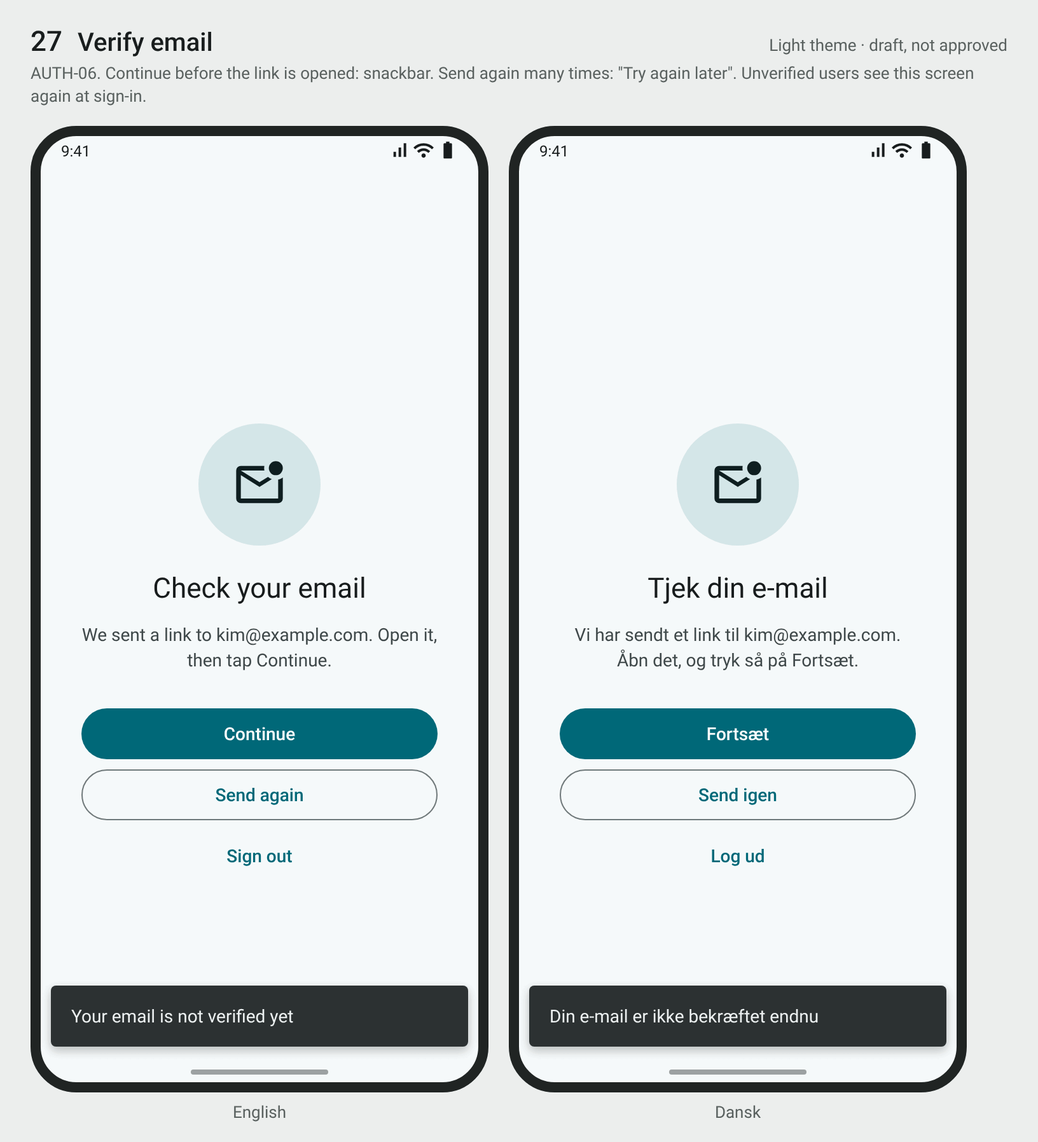
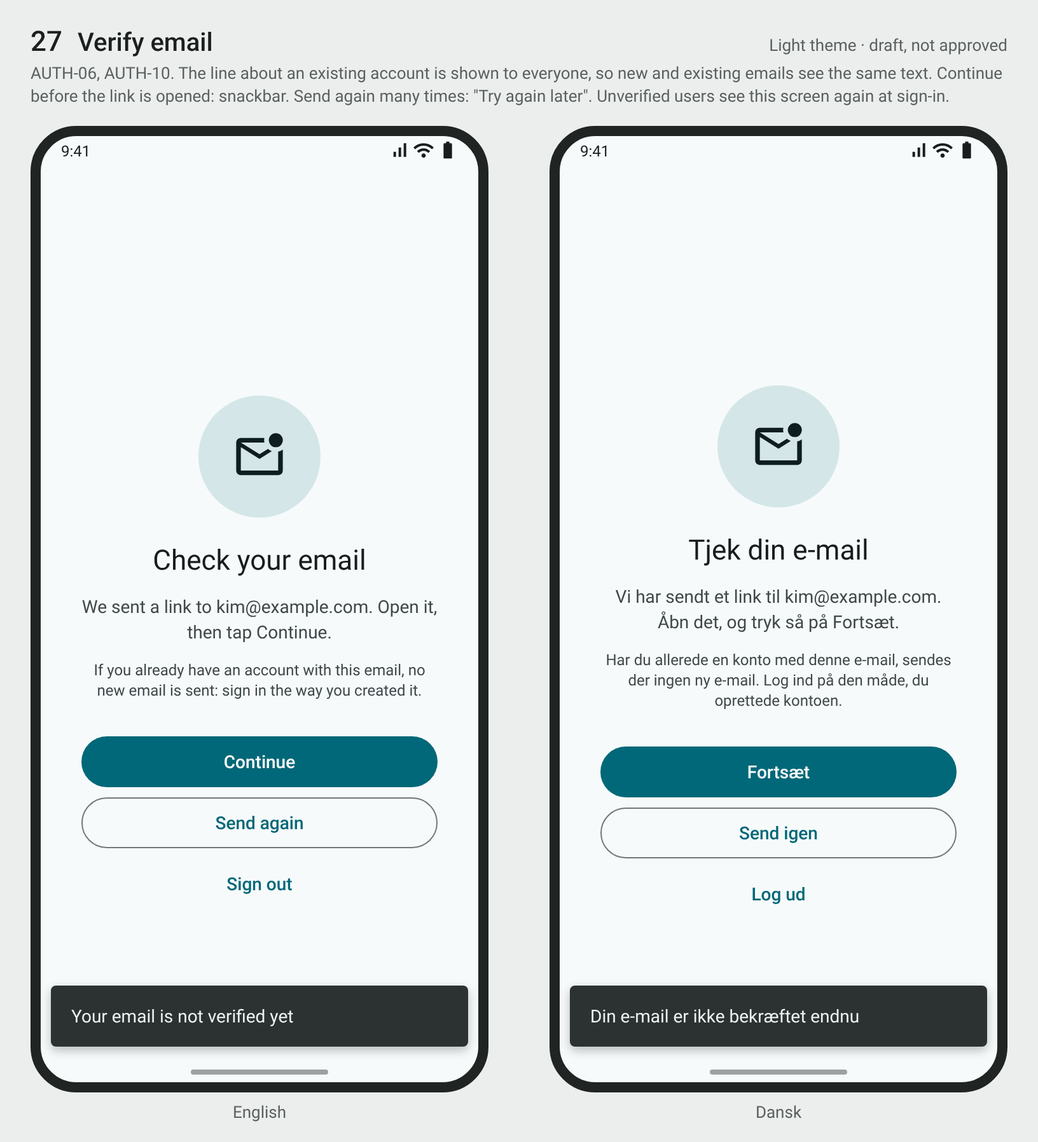
docs: wireframes 34-44 and updates to 01, 18, 24, 26, 27 for the M1 UI wording
Claude-Session: https://claude.ai/code/session_013srDQhMqky9FrW9HLVgezq

diff --git a/docs/product/wireframes/wireframes.html b/docs/product/wireframes/wireframes.html
@@ -101,6 +101,8 @@
 
   .snack { position: absolute; left: var(--sp-s); right: var(--sp-s); bottom: var(--sp-s); min-height: 48px; border-radius: 4px; background: var(--inverseSurface); color: var(--inverseOnSurface); display: flex; align-items: center; padding: var(--sp-s) var(--sp-s) var(--sp-s) var(--sp-l); gap: var(--sp-s); box-shadow: 0 3px 8px rgba(0,0,0,.25); z-index: 5; }
   .snack .txt { flex: 1; }
+  .switch { width: 52px; height: 32px; border-radius: 16px; border: 2px solid var(--outline); background: var(--surfaceContainerHighest); position: relative; flex: none; box-sizing: border-box; }
+  .switch::after { content: ''; position: absolute; top: 6px; left: 6px; width: 16px; height: 16px; border-radius: 50%; background: var(--outline); }
   .snack .act { color: var(--inversePrimary); padding: 0 var(--sp-m); height: 40px; display: inline-flex; align-items: center; }
 
   .scrim { position: absolute; inset: -24px 0 -20px 0; background: var(--scrim); opacity: .32; z-index: 6; }
@@ -188,7 +190,7 @@ const TOKENS_URL = sameOriginUrl(params.get('tokens') || DEFAULT_TOKENS, locatio
 const S = {
   en: {
     appTag: 'Collections and lists, shared with your household',
-    signIn: 'Sign in with Google', signInNote: 'Your lists are kept with your account, so they follow you to a new phone.',
+    signIn: 'Continue with Google', signInNote: 'Your lists are kept with your account, so they follow you to a new phone.',
     needsConnection: 'This needs a connection',
     lists: 'Lists', createList: 'Create list', noListsTitle: 'No lists yet',
     noListsBody: 'Make a list of what you collect or need, and tick off what you have. A new list is private until you share it.',
@@ -197,7 +199,7 @@ const S = {
     listType: 'List type', plainList: 'Plain list', plainNote: 'Items with a name, sorted by name', collection: 'Collection',
     collectionNote: 'Items with release and re-release year, sorted by year', typeFixed: 'The type cannot be changed later.',
     signInEmail: 'Use email and password', createAccount: 'Create account', email: 'Email', password: 'Password',
-    signInBtn: 'Sign in', forgot: 'Forgot password?', wrongCreds: 'Wrong email or password', tooMany: 'Too many attempts, try again later',
+    signInBtn: 'Sign in', forgot: 'Forgot password?', wrongCreds: 'Wrong email or password. If you signed up with Google, use Continue with Google.', tooMany: 'Too many attempts, try again later',
     pwRule: 'At least 12 characters', pwShort: 'Use at least 12 characters', noAccount: 'No account yet?',
     checkEmail: 'Check your email', checkEmailBody: e => `We sent a link to ${e}. Open it, then tap Continue.`,
     cont: 'Continue', sendAgain: 'Send again', notVerified: 'Your email is not verified yet',
@@ -242,12 +244,33 @@ const S = {
     hhDeleted: 'Household deleted',
     hhDeletedBody: h => `${h} was deleted. The lists you had shared are private to you again, with all their items. You can share them again when you are in a household.`,
     ok: 'OK',
+    collision: 'This email already has an account. Sign in with your email and password.',
+    checkEmailNote: 'If you already have an account with this email, no new email is sent: sign in the way you created it.',
+    yourName: 'Your name', nameHelp: 'Your household sees this name. Your email is never shown.', enterYourName: 'Enter your name',
+    nameTitle: 'What should we call you?', nameGoogleBody: 'We filled this in from your Google account. Your household sees this name, never your email.',
+    editName: 'Edit your name',
+    crash: 'Send crash reports', crashNote: 'Off until you turn it on. Helps fix crashes.',
+    leaveQ: 'Leave household?', leave: 'Leave',
+    leaveBody: h => `You leave ${h}. The lists you created go with you and stay private. The other members lose the lists you shared.`,
+    removeQ: n => `Remove ${n}?`,
+    removeBody: n => `${n} loses access to the lists others shared. The lists ${n} created go with ${n}, so the other members lose the lists ${n} shared.`,
+    ownerQ: n => `Make ${n} household owner?`, makeOwnerBtn: 'Make owner',
+    ownerBody: n => `${n} becomes the household owner and you become a plain member. Only the household owner can remove members, transfer ownership and delete the household.`,
+    deleteHhQ: 'Delete household?',
+    deleteHhBody: h => `${h} is deleted for all members and cannot be restored. Shared lists go back to the people who created them, private, with all their items.`,
+    transferFirst: 'Transfer ownership first', toHousehold: 'Go to household',
+    transferFirstBody: 'You are the household owner and other members remain. Make another member the household owner, then delete your account. Nothing has been deleted.',
+    signOutQ: 'Sign out?', signOutBody: 'Some changes have not been sent yet. If you sign out now, they are lost.', signOutAnyway: 'Sign out anyway',
+    removedQ: 'You were removed from the household',
+    removedBody: h => `You were removed from ${h}. The lists you created stay with you and are private. You no longer see lists others shared.`,
+    updateTitle: 'Update the app', updateBody: 'This version of Tally is too old to work. Get the new version, then open it.',
+    updateBtn: 'Get the update', updateNote: 'Opens the releases page on GitHub.',
     webTitle: 'You are invited to a household in Tally', webBody: 'Install the app, then tap the link again.',
     webPlay: 'Open Google Play', webSmall: 'Already installed? Tap the link in your message again.',
   },
   da: {
     appTag: 'Samlinger og lister, delt med din husstand',
-    signIn: 'Log ind med Google', signInNote: 'Dine lister gemmes med din konto, så de følger med til en ny telefon.',
+    signIn: 'Fortsæt med Google', signInNote: 'Dine lister gemmes med din konto, så de følger med til en ny telefon.',
     needsConnection: 'Det kræver internetforbindelse',
     lists: 'Lister', createList: 'Opret liste', noListsTitle: 'Ingen lister endnu',
     noListsBody: 'Lav en liste over det, du samler på eller mangler, og sæt flueben ved det, du har. En ny liste er privat, indtil du deler den.',
@@ -256,7 +279,7 @@ const S = {
     listType: 'Listetype', plainList: 'Almindelig liste', plainNote: 'Ting med et navn, sorteret efter navn', collection: 'Samling',
     collectionNote: 'Ting med udgivelses- og genudgivelsesår, sorteret efter år', typeFixed: 'Typen kan ikke ændres senere.',
     signInEmail: 'Brug e-mail og adgangskode', createAccount: 'Opret konto', email: 'E-mail', password: 'Adgangskode',
-    signInBtn: 'Log ind', forgot: 'Glemt adgangskode?', wrongCreds: 'Forkert e-mail eller adgangskode', tooMany: 'For mange forsøg. Prøv igen senere',
+    signInBtn: 'Log ind', forgot: 'Glemt adgangskode?', wrongCreds: 'Forkert e-mail eller adgangskode. Hvis du oprettede dig med Google, så brug Fortsæt med Google.', tooMany: 'For mange forsøg. Prøv igen senere',
     pwRule: 'Mindst 12 tegn', pwShort: 'Brug mindst 12 tegn', noAccount: 'Har du ingen konto?',
     checkEmail: 'Tjek din e-mail', checkEmailBody: e => `Vi har sendt et link til ${e}. Åbn det, og tryk så på Fortsæt.`,
     cont: 'Fortsæt', sendAgain: 'Send igen', notVerified: 'Din e-mail er ikke bekræftet endnu',
@@ -301,6 +324,27 @@ const S = {
     hhDeleted: 'Husstanden er slettet',
     hhDeletedBody: h => `${h} er slettet. De lister, du havde delt, er private for dig igen med alle deres ting. Du kan dele dem igen, når du er i en husstand.`,
     ok: 'OK',
+    collision: 'Der findes allerede en konto med denne e-mail. Log ind med din e-mail og adgangskode.',
+    checkEmailNote: 'Har du allerede en konto med denne e-mail, sendes der ingen ny e-mail. Log ind på den måde, du oprettede kontoen.',
+    yourName: 'Dit navn', nameHelp: 'Din husstand ser dette navn. Din e-mail vises aldrig.', enterYourName: 'Skriv dit navn',
+    nameTitle: 'Hvad skal vi kalde dig?', nameGoogleBody: 'Vi har udfyldt det fra din Google-konto. Din husstand ser dette navn, aldrig din e-mail.',
+    editName: 'Ret dit navn',
+    crash: 'Send nedbrudsrapporter', crashNote: 'Slået fra, indtil du slår det til. Hjælper med at rette nedbrud.',
+    leaveQ: 'Forlad husstanden?', leave: 'Forlad',
+    leaveBody: h => `Du forlader ${h}. De lister, du har oprettet, følger med dig og er private. De andre medlemmer mister de lister, du har delt.`,
+    removeQ: n => `Fjern ${n}?`,
+    removeBody: n => `${n} mister adgang til de lister, andre har delt. De lister, ${n} har oprettet, følger med ${n}, så de andre medlemmer mister de lister, ${n} har delt.`,
+    ownerQ: n => `Gør ${n} til husstandens ejer?`, makeOwnerBtn: 'Gør til ejer',
+    ownerBody: n => `${n} bliver husstandens ejer, og du bliver almindeligt medlem. Kun husstandens ejer kan fjerne medlemmer, overdrage ejerskab og slette husstanden.`,
+    deleteHhQ: 'Slet husstanden?',
+    deleteHhBody: h => `${h} slettes for alle medlemmer og kan ikke gendannes. Delte lister går tilbage til dem, der har oprettet dem, som private lister med alle deres ting.`,
+    transferFirst: 'Overdrag ejerskab først', toHousehold: 'Gå til husstanden',
+    transferFirstBody: 'Du er husstandens ejer, og der er andre medlemmer. Gør et andet medlem til husstandens ejer, og slet så din konto. Intet er slettet.',
+    signOutQ: 'Log ud?', signOutBody: 'Nogle ændringer er ikke sendt endnu. Hvis du logger ud nu, går de tabt.', signOutAnyway: 'Log ud alligevel',
+    removedQ: 'Du er fjernet fra husstanden',
+    removedBody: h => `Du er fjernet fra ${h}. De lister, du har oprettet, er stadig dine og private. Du kan ikke længere se lister, andre har delt.`,
+    updateTitle: 'Opdater appen', updateBody: 'Denne version af Tally er for gammel til at virke. Hent den nye version, og åbn den.',
+    updateBtn: 'Hent opdateringen', updateNote: 'Åbner siden med udgivelser på GitHub.',
     webTitle: 'Du er inviteret til en husstand i Tally', webBody: 'Installer appen, og tryk så på linket igen.',
     webPlay: 'Åbn Google Play', webSmall: 'Har du allerede appen? Tryk på linket i din besked igen.',
   },
@@ -394,13 +438,36 @@ const qr = () => { let r = ''; let x = 7;
   return `<svg width="148" height="148" viewBox="-1 -1 23 23" style="background:#fff;border-radius:8px;align-self:center"><g fill="#000">${r}</g></svg>`; };
 const linkRow = (a, b) => `<div class="t-bodyMedium" style="text-align:center;margin-top:var(--sp-s)">${a}</div>${b ? `<div class="t-bodyMedium" style="text-align:center">${b}</div>` : ''}`;
 
+const signInScreen = (s, msg) => `<div class="center">${logo()}<div class="t-headlineSmall" style="margin-top:var(--sp-l)">Tally</div>
+  <div class="t-bodyLarge var">${s.appTag}</div>${msg}
+  <div class="stack"><span class="btn filled wide t-labelLarge">${ic('login')}${s.signIn}</span><span class="btn outlined wide t-labelLarge">${ic('mail')}${s.signInEmail}</span></div>
+  <div class="t-bodySmall var" style="margin-top:var(--sp-s)">${s.signInNote}</div></div>`;
+const msgCard = (icon, text) => `<div class="row card" style="width:100%;margin:var(--sp-s) 0 0;background:var(--errorContainer);color:var(--onErrorContainer);text-align:left">${ic(icon)}<div class="txt t-bodyMedium">${text}</div></div>`;
+const hhMembers = (s, menu) => `${topbar(s.household, { back: true })}<div class="head"><div class="t-headlineSmall">${HH}</div><div class="t-bodyMedium var">${s.members(3)}</div></div>
+  <div class="row"><span class="avatar lg">S</span><div class="txt"><div class="t-bodyLarge">Sam Jensen (${s.you})</div><div class="t-bodyMedium var">${s.owner}</div></div></div>
+  <div class="row"><span class="avatar lg sec">A</span><div class="txt"><div class="t-bodyLarge">Anna Jensen</div><div class="t-bodyMedium var">${s.member}</div></div>${iconBtn('more_vert')}</div>
+  <div class="row"><span class="avatar lg ter">M</span><div class="txt"><div class="t-bodyLarge">Mikkel</div><div class="t-bodyMedium var">${s.member}</div></div>${iconBtn('more_vert')}</div>
+  ${menu ? `<div class="menu t-bodyLarge" style="top:262px;right:16px"><div class="mi">${ic('shield_person')}<span>${s.makeOwner}</span></div><div class="mi danger">${ic('person_remove')}<span>${s.removeMember}</span></div></div>` : ''}
+  <div class="section t-titleMedium">${s.openInvites}</div>
+  <div class="row">${ic('link', 'lead')}<div class="txt"><div class="t-bodyLarge">${s.inviteLink}</div><div class="t-bodyMedium var">${s.expiresIn(6)}</div></div><span class="btn text t-labelLarge">${s.revoke}</span></div>
+  <div style="padding:var(--sp-s) var(--sp-l)"><span class="btn filled wide t-labelLarge">${ic('share')}${s.invite}</span></div>
+  <div style="padding:0 var(--sp-l)"><span class="btn text danger wide t-labelLarge">${s.deleteHh}</span></div>`;
+const accountScreen = s => `${topbar(s.account, { back: true })}<div class="row" style="padding:var(--sp-l)"><span class="avatar lg">S</span><div class="txt"><div class="t-titleMedium">Sam Jensen</div><div class="t-bodyMedium var">sam@example.com</div></div></div>
+  <div class="divider"></div>
+  <div class="row">${ic('badge', 'lead')}<div class="txt"><div class="t-bodyLarge">${s.yourName}</div><div class="t-bodyMedium var">Sam Jensen</div></div>${ic('edit', 'lead')}</div>
+  <div class="row">${ic('password', 'lead')}<div class="txt t-bodyLarge">${s.changePw}</div>${ic('chevron_right', 'lead')}</div>
+  <div class="row">${ic('phonelink_lock', 'lead')}<div class="txt"><div class="t-bodyLarge">${s.twoStep}</div><div class="t-bodyMedium var">${s.off}</div></div>${ic('chevron_right', 'lead')}</div>
+  <div class="row">${ic('home', 'lead')}<div class="txt"><div class="t-bodyLarge">${s.household}</div><div class="t-bodyMedium var">${HH}</div></div>${ic('chevron_right', 'lead')}</div>
+  <div class="row">${ic('bug_report', 'lead')}<div class="txt"><div class="t-bodyLarge">${s.crash}</div><div class="t-bodyMedium var">${s.crashNote}</div></div><span class="switch"></span></div>
+  <div class="divider"></div>
+  <div class="row">${ic('logout', 'lead')}<div class="txt"><div class="t-bodyLarge">${s.signOut}</div><div class="t-bodyMedium var">${s.signOutNote}</div></div></div>
+  <div class="row" style="color:var(--error)">${ic('delete_forever')}<div class="txt t-bodyLarge">${s.deleteAccount}</div></div>
+  <div class="t-bodySmall var" style="margin-top:auto;padding:var(--sp-l);text-align:center">Tally 1.0</div>`;
+
 /* ---------- Screens: id, title, story and decision refs, content(strings) ---------- */
 const SCREENS = [
-  { id: '01', t: 'Sign-in', refs: 'AUTH-01, AUTH-02, SYNC-03, OQ-22, OQ-23. Google is the main button; "Use email and password" leads to sign in, create account and reset (24 to 28). Shown only when signed out. No connection: snackbar, nothing else happens. Cancelling the account picker shows nothing.',
-    f: s => `<div class="center">${logo()}<div class="t-headlineSmall" style="margin-top:var(--sp-l)">Tally</div>
-      <div class="t-bodyLarge var">${s.appTag}</div>
-      <div class="stack"><span class="btn filled wide t-labelLarge">${ic('login')}${s.signIn}</span><span class="btn outlined wide t-labelLarge">${ic('mail')}${s.signInEmail}</span></div>
-      <div class="t-bodySmall var" style="margin-top:var(--sp-s)">${s.signInNote}</div></div>${snack(s.needsConnection)}` },
+  { id: '01', t: 'Sign-in', refs: 'AUTH-01, AUTH-02, SYNC-03, OQ-22, OQ-23. Google is the main button ("Continue with Google"); "Use email and password" leads to sign in, create account and reset (24 to 28). Shown only when signed out. No connection: snackbar, nothing else happens. Cancelling the account picker shows nothing.',
+    f: s => signInScreen(s, '') + snack(s.needsConnection) },
   { id: '02', t: 'Lists, empty', refs: 'LIST-01, VIS-01, OQ-1. First start of a new account.',
     f: s => `${listsBar(s)}<div class="center"><div class="bubble">${ic('checklist')}</div><div class="t-titleLarge">${s.noListsTitle}</div>
       <div class="t-bodyMedium var">${s.noListsBody}</div></div>${fab(s.createList)}` },
@@ -445,15 +512,7 @@ const SCREENS = [
       <div class="divider" style="width:100%;margin:var(--sp-l) 0 var(--sp-s)"></div>
       <div class="t-titleMedium">${s.haveLink}</div><div class="t-bodyMedium var">${s.haveLinkBody}</div></div>` },
   { id: '15', t: 'Household members (household owner)', refs: 'HH-02, HH-04, HH-06. Member menu open. A plain member sees Leave household instead of Delete and no member menu. All of these need a connection (OQ-22).',
-    f: s => `${topbar(s.household, { back: true })}<div class="head"><div class="t-headlineSmall">${HH}</div><div class="t-bodyMedium var">${s.members(3)}</div></div>
-      <div class="row"><span class="avatar lg">S</span><div class="txt"><div class="t-bodyLarge">Sam Jensen (${s.you})</div><div class="t-bodyMedium var">${s.owner}</div></div></div>
-      <div class="row"><span class="avatar lg sec">A</span><div class="txt"><div class="t-bodyLarge">Anna Jensen</div><div class="t-bodyMedium var">${s.member}</div></div>${iconBtn('more_vert')}</div>
-      <div class="row"><span class="avatar lg ter">M</span><div class="txt"><div class="t-bodyLarge">Mikkel</div><div class="t-bodyMedium var">${s.member}</div></div>${iconBtn('more_vert')}</div>
-      <div class="menu t-bodyLarge" style="top:262px;right:16px"><div class="mi">${ic('shield_person')}<span>${s.makeOwner}</span></div><div class="mi danger">${ic('person_remove')}<span>${s.removeMember}</span></div></div>
-      <div class="section t-titleMedium">${s.openInvites}</div>
-      <div class="row">${ic('link', 'lead')}<div class="txt"><div class="t-bodyLarge">${s.inviteLink}</div><div class="t-bodyMedium var">${s.expiresIn(6)}</div></div><span class="btn text t-labelLarge">${s.revoke}</span></div>
-      <div style="padding:var(--sp-s) var(--sp-l)"><span class="btn filled wide t-labelLarge">${ic('share')}${s.invite}</span></div>
-      <div style="padding:0 var(--sp-l)"><span class="btn text danger wide t-labelLarge">${s.deleteHh}</span></div>` },
+    f: s => hhMembers(s, true) },
   { id: '16', t: 'Join household', refs: 'HH-03, OQ-16. Opened from an invite link, after sign-in if needed. Joining needs a connection (OQ-22).',
     f: s => `${topbar('', { close: true })}<div class="center"><div class="bubble">${ic('home')}</div><div class="t-bodyLarge var">${s.invited}</div>
       <div class="t-headlineSmall">${HH}</div><div class="t-bodyMedium var">${s.joinBody}</div>
@@ -461,16 +520,8 @@ const SCREENS = [
   { id: '17', t: 'Invite link does not work', refs: 'HH-03, SYNC-03. The same layout says "leave your household first" and "this needs a connection", each with its own text.',
     f: s => `${topbar('', { close: true })}<div class="center"><div class="bubble">${ic('link_off')}</div><div class="t-titleLarge">${s.linkDead}</div>
       <div class="t-bodyMedium var">${s.linkDeadBody}</div><div class="stack"><span class="btn tonal wide t-labelLarge">${s.toLists}</span></div></div>` },
-  { id: '18', t: 'Account', refs: 'AUTH-03, AUTH-04, AUTH-09, OQ-31. Password account shown; a Google account has no password rows. No language row: v1 uses only Android per-app language (OQ-12). Sign out removes the local copy (OQ-13, assumed).',
-    f: s => `${topbar(s.account, { back: true })}<div class="row" style="padding:var(--sp-l)"><span class="avatar lg">S</span><div class="txt"><div class="t-titleMedium">Sam Jensen</div><div class="t-bodyMedium var">sam@example.com</div></div></div>
-      <div class="divider"></div>
-      <div class="row">${ic('password', 'lead')}<div class="txt t-bodyLarge">${s.changePw}</div>${ic('chevron_right', 'lead')}</div>
-      <div class="row">${ic('phonelink_lock', 'lead')}<div class="txt"><div class="t-bodyLarge">${s.twoStep}</div><div class="t-bodyMedium var">${s.off}</div></div>${ic('chevron_right', 'lead')}</div>
-      <div class="row">${ic('home', 'lead')}<div class="txt"><div class="t-bodyLarge">${s.household}</div><div class="t-bodyMedium var">${HH}</div></div>${ic('chevron_right', 'lead')}</div>
-      <div class="divider"></div>
-      <div class="row">${ic('logout', 'lead')}<div class="txt"><div class="t-bodyLarge">${s.signOut}</div><div class="t-bodyMedium var">${s.signOutNote}</div></div></div>
-      <div class="row" style="color:var(--error)">${ic('delete_forever')}<div class="txt t-bodyLarge">${s.deleteAccount}</div></div>
-      <div class="t-bodySmall var" style="margin-top:auto;padding:var(--sp-l);text-align:center">Tally 1.0</div>` },
+  { id: '18', t: 'Account', refs: 'AUTH-03, AUTH-04, AUTH-09, AUTH-12, OQ-31. Password account shown; a Google account has no password rows. "Your name" is editable (43, AUTH-12). "Send crash reports" is off until switched on (M1-25). No language row: v1 uses only Android per-app language (OQ-12). Sign out removes the local copy (OQ-13, assumed).',
+    f: s => accountScreen(s) },
   { id: '19', t: 'Delete account', refs: 'AUTH-04, OQ-5. A household owner with other members is first told to transfer ownership; nothing is deleted. Needs a connection.',
     f: s => `${topbar(s.account, { back: true })}${dialog({ icon: 'delete_forever', title: s.deleteAccountQ, body: s.deleteAccountBody,
       acts: `<span class="btn text">${s.cancel}</span><span class="btn text danger">${s.deleteAccount}</span>` })}` },
@@ -485,19 +536,19 @@ const SCREENS = [
     f: s => openList(s, { l: LISTS[1], items: PLAIN }) },
   { id: '23', t: 'Add item, plain list', refs: 'ITEM-01 for a plain list: the name only; the sheet stays open for the next item. Edit (08) is the same without years.',
     f: s => openList(s, { l: LISTS[1], items: PLAIN, fabOn: false, overlay: sheetItem(s, { title: s.addItem, name: 'Kaffeb', focus: 'n', plain: true }) }) },
-  { id: '24', t: 'Sign in with email, wrong email or password', refs: 'AUTH-07. One message that never says which part was wrong or whether the account exists. No connection: "This needs a connection".',
+  { id: '24', t: 'Sign in with email, wrong email or password', refs: 'AUTH-07, OQ-34 (c, decided). One message that never says which part was wrong or whether the account exists, with the hint for Google users. No connection: "This needs a connection".',
     f: s => auth(s.signInBtn, '', `${field({ label: s.email, value: 'sam@example.com' })}${pw(s.password, 14, { state: 'err', trail: 'error' })}${support(s.wrongCreds, true)}
       <span class="btn filled wide t-labelLarge" style="margin-top:var(--sp-l)">${s.signInBtn}</span>${linkRow(`<span class="btn text t-labelLarge">${s.forgot}</span>`, `<span class="var">${s.noAccount}</span> <span class="btn text t-labelLarge">${s.createAccount}</span>`)}`) },
   { id: '25', t: 'Sign in with email, too many attempts', refs: 'AUTH-07, AUTH-09. After many failed attempts (also wrong codes): the message replaces the error until the server allows tries again.',
     f: s => auth(s.signInBtn, '', `${field({ label: s.email, value: 'sam@example.com' })}${pw(s.password, 14)}
       <div class="row card" style="margin:var(--sp-s) 0;background:var(--errorContainer);color:var(--onErrorContainer)">${ic('timer')}<div class="txt t-bodyMedium">${s.tooMany}</div></div>
       <span class="btn filled wide t-labelLarge" style="opacity:.38">${s.signInBtn}</span>${linkRow(`<span class="btn text t-labelLarge">${s.forgot}</span>`)}`) },
-  { id: '26', t: 'Create account, password too short', refs: 'AUTH-05, OQ-26: at least 12 characters and no other rules. Invalid email: field error. An existing email never makes a second account (AUTH-10).',
-    f: s => auth(s.createAccount, '', `${field({ label: s.email, value: 'kim@example.com' })}${pw(s.password, 8, { state: 'err', trail: 'error', caret: true })}${support(s.pwShort, true)}
+  { id: '26', t: 'Create account, password too short', refs: 'AUTH-05, AUTH-12, OQ-26: "Your name" is required (empty: field error, nothing created); at least 12 characters and no other rules. Invalid email: field error. An existing email never makes a second account (AUTH-10).',
+    f: s => auth(s.createAccount, '', `${field({ label: s.yourName, value: 'Kim Larsen' })}${support(s.nameHelp)}${field({ label: s.email, value: 'kim@example.com' })}${pw(s.password, 8, { state: 'err', trail: 'error', caret: true })}${support(s.pwShort, true)}
       <span class="btn filled wide t-labelLarge" style="margin-top:var(--sp-l)">${s.createAccount}</span>`) + '<div style="flex:1"></div>' },
-  { id: '27', t: 'Verify email', refs: 'AUTH-06. Continue before the link is opened: snackbar. Send again many times: "Try again later". Unverified users see this screen again at sign-in.',
+  { id: '27', t: 'Verify email', refs: 'AUTH-06, AUTH-10. The line about an existing account is shown to everyone, so new and existing emails see the same text. Continue before the link is opened: snackbar. Send again many times: "Try again later". Unverified users see this screen again at sign-in.',
     f: s => `${topbar('', {})}<div class="center"><div class="bubble">${ic('mark_email_unread')}</div><div class="t-titleLarge">${s.checkEmail}</div>
-      <div class="t-bodyMedium var">${s.checkEmailBody('kim@example.com')}</div><div class="stack"><span class="btn filled wide t-labelLarge">${s.cont}</span>
+      <div class="t-bodyMedium var">${s.checkEmailBody('kim@example.com')}</div><div class="t-bodySmall var">${s.checkEmailNote}</div><div class="stack"><span class="btn filled wide t-labelLarge">${s.cont}</span>
       <span class="btn outlined wide t-labelLarge">${s.sendAgain}</span><span class="btn text wide t-labelLarge">${s.signOut}</span></div></div>${snack(s.notVerified)}` },
   { id: '28', t: 'Reset password, link sent', refs: 'AUTH-08. The same message whether or not an account exists. The new password follows the 12-character rule on the Firebase default page (OQ-29).',
     f: s => auth(s.resetTitle, s.resetBody, `${field({ label: s.email, value: 'sam@example.com' })}
@@ -519,6 +570,38 @@ const SCREENS = [
   { id: '33', t: 'Share while offline', refs: 'VIS-02, VIS-04, OQ-22 (owner, 2026-11-16): sharing and stopping sharing need a connection; nothing changes. List and item changes still work offline.',
     f: s => `${topbar('Board games', { back: true, actions: iconBtn('more_vert') })}${offline(s, 1)}<div class="center"><div class="bubble">${ic('playlist_add')}</div>
       <div class="t-titleLarge">${s.emptyListTitle}</div></div>${snack(s.needsConnection)}` },
+  { id: '34', t: 'Leave household', refs: 'HH-05, OQ-5, OQ-22. A plain member. Same dialog pattern as 11, 12, 19 and 20. The text says the lists go with me and the others lose the lists I shared. Needs a connection.',
+    f: s => hhMembers(s, false) + dialog({ icon: 'logout', title: s.leaveQ, body: s.leaveBody(HH),
+      acts: `<span class="btn text">${s.cancel}</span><span class="btn text danger">${s.leave}</span>` }) },
+  { id: '35', t: 'Remove member', refs: 'HH-06, OQ-5, OQ-22. Household owner, from the member menu on 15. The text says the lists the member created go with them.',
+    f: s => hhMembers(s, false) + dialog({ icon: 'person_remove', title: s.removeQ('Anna Jensen'), body: s.removeBody('Anna'),
+      acts: `<span class="btn text">${s.cancel}</span><span class="btn text danger">${s.remove}</span>` }) },
+  { id: '36', t: 'Transfer ownership', refs: 'HH-06, OQ-22. Household owner, from the member menu on 15. Not dangerous, so the action button is not red.',
+    f: s => hhMembers(s, false) + dialog({ icon: 'shield_person', title: s.ownerQ('Anna Jensen'), body: s.ownerBody('Anna'),
+      acts: `<span class="btn text">${s.cancel}</span><span class="btn text">${s.makeOwnerBtn}</span>` }) },
+  { id: '37', t: 'Delete household', refs: 'HH-06, OQ-17, OQ-22. The text says shared lists go back to their creators and that the household cannot be restored.',
+    f: s => hhMembers(s, false) + dialog({ icon: 'home', title: s.deleteHhQ, body: s.deleteHhBody(HH),
+      acts: `<span class="btn text">${s.cancel}</span><span class="btn text danger">${s.delete}</span>` }) },
+  { id: '38', t: 'Delete account, transfer ownership first', refs: 'AUTH-04, HH-06. A household owner with other members: nothing is deleted. "Go to household" opens 15.',
+    f: s => accountScreen(s) + dialog({ icon: 'shield_person', title: s.transferFirst, body: s.transferFirstBody,
+      acts: `<span class="btn text">${s.ok}</span><span class="btn text">${s.toHousehold}</span>` }) },
+  { id: '39', t: 'Sign out with unsent changes', refs: 'AUTH-03, OQ-13. Shown whenever the wait for pending changes does not finish (offline or timeout). Without unsent changes, sign out needs no dialog.',
+    f: s => accountScreen(s) + dialog({ icon: 'logout', title: s.signOutQ, body: s.signOutBody,
+      acts: `<span class="btn text">${s.cancel}</span><span class="btn text danger">${s.signOutAnyway}</span>` }) },
+  { id: '40', t: 'Removed from household notice', refs: 'HH-06, M1-21. Shown once at the next app start to a member the household owner removed. The member keeps their own lists, now private.',
+    f: s => `${listsBar(s)}<div class="scroll" style="padding-top:var(--sp-s)">${LISTS.filter(l => !l.by).map(l => listRow(s, { ...l, shared: false })).join('')}</div>${dialog({
+      icon: 'info', title: s.removedQ, body: s.removedBody(HH), acts: `<span class="btn text">${s.ok}</span>` })}` },
+  { id: '41', t: 'Update the app', refs: 'START-01, M1-27. Full screen at app start, before sign-in, when this version is below the minimum. No back, no skip. Never shown when the check cannot be made.',
+    f: s => `<div class="center">${logo()}<div class="t-headlineSmall" style="margin-top:var(--sp-l)">${s.updateTitle}</div><div class="t-bodyLarge var">${s.updateBody}</div>
+      <div class="stack"><span class="btn filled wide t-labelLarge">${ic('system_update')}${s.updateBtn}</span></div><div class="t-bodySmall var">${s.updateNote}</div></div>` },
+  { id: '42', t: 'Your name, first Google sign-in', refs: 'AUTH-01, AUTH-12 (owner decision on #191). Asked once after the first Google sign-in, filled in from the Google account; it can be changed. Empty: field error "Enter your name". Members never see emails.',
+    f: s => auth(s.nameTitle, s.nameGoogleBody, `${field({ label: s.yourName, value: 'Sam Jensen', state: 'focus', caret: true })}
+      <span class="btn filled wide t-labelLarge" style="margin-top:var(--sp-s)">${s.cont}</span>`) },
+  { id: '43', t: 'Edit your name', refs: 'AUTH-12. From Account (18). Same name rules as 42 and 26; the household sees the new name at once. Needs a connection.',
+    f: s => accountScreen(s) + dialog({ title: s.editName, extra: `<div style="margin-top:var(--sp-s)">${field({ label: s.yourName, value: 'Sam Jensen', state: 'focus', caret: true })}</div>`,
+      acts: `<span class="btn text">${s.cancel}</span><span class="btn text">${s.save}</span>` }) },
+  { id: '44', t: 'Google sign-in, email already has a password account', refs: 'AUTH-10, OQ-34 (decided 2026-11-17, M1.md). A non-Gmail Google account whose email has a password account: no second account, nothing lost. Shown on the sign-in screen.',
+    f: s => signInScreen(s, msgCard('error', s.collision)) },
 ];
 
 /* ---------- Token plumbing ---------- */
